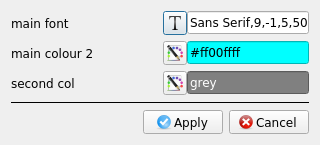
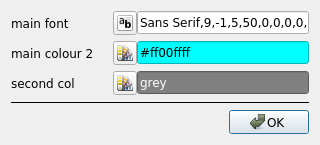
Set buttons in prefs dialog via the --buttons switch, defaults to OK

Changed region(s): [[0.3438, 0.2759, 0.75, 0.6621], [0.3438, 0.0552, 0.9688, 0.2483], [0.4375, 0.7448, 0.9688, 0.9379]]

diff --git a/YadQt/src/prefsClass.cpp b/YadQt/src/prefsClass.cpp
@@ -51,6 +51,7 @@ prefsClass::~prefsClass()
 */
 prefsClass::prefsClass()
 {
+	this->bb=new QDialogButtonBox(QDialogButtonBox::NoButton);
 }
 
 QString prefsClass::bestFontColour(QString colour)
@@ -529,10 +530,12 @@ void prefsClass::createDialog(QString title,QStringList items,QSize sze)
 			docvlayout->addWidget(hbox,1);
 		}
 
-	QDialogButtonBox bb(QDialogButtonBox::Ok|QDialogButtonBox::Apply|QDialogButtonBox::Cancel);
-	QObject::connect(&bb,&QDialogButtonBox::clicked,[this,&bb](QAbstractButton *button)
+	//QDialogButtonBox bb(QDialogButtonBox::Ok|QDialogButtonBox::Apply|QDialogButtonBox::Cancel);
+	//QDialogButtonBox bb();
+	QObject::connect(this->bb,&QDialogButtonBox::clicked,[this](QAbstractButton *button)
 		{
-			switch(bb.standardButton(button))
+		qDebug()<<">>>>>>>";
+			switch(this->bb->standardButton(button))
 				{
 					case QDialogButtonBox::Ok:
 						{
@@ -568,11 +571,11 @@ void prefsClass::createDialog(QString title,QStringList items,QSize sze)
 	if(this->paged==false)
 		{
 			mainvlayout->addWidget(&f);
-			mainvlayout->addWidget(&bb);
+			mainvlayout->addWidget(this->bb);
 		}
 	else
 		{
-			mainvlayout->addWidget(&bb);
+			mainvlayout->addWidget(this->bb);
 			mainvlayout->addSpacing(8);
 		}
 

diff --git a/YadQt/src/prefsClass.h b/YadQt/src/prefsClass.h
@@ -74,8 +74,9 @@ class prefsClass
 	QStringList				prefsNames;
 	bool						paged=false;
 	QString					opSep="\n";
-	void						createDialog(QString title,QStringList items,QSize sze=QSize(-1,-1));
+	QDialogButtonBox			*bb;
 
+	void						createDialog(QString title,QStringList items,QSize sze=QSize(-1,-1));
 	void						setPrefs(QStringList items);
 	void						setPrefValue(QString name,QVariant val);
 	QVariant					getPrefValue(QString name);

diff --git a/YadQt/src/OrphanDialogClass.cpp b/YadQt/src/OrphanDialogClass.cpp
@@ -139,6 +139,8 @@ void OrphanDialogClass::prefsDialog(bool istabbed)
 	prefsdata=this->data->defaultText.split(this->data->ipsep);
 	newprefs->paged=istabbed;
 	newprefs->opSep=this->data->opsep;
+			//this->bb->setStandardButtons(this->dbutton);
+newprefs->bb->setStandardButtons(this->data->dbutton);
 
 	if(this->data->customSize==true)
 		newprefs->createDialog(this->data->title,prefsdata,this->data->adjustBoxSize(-1,-1));
